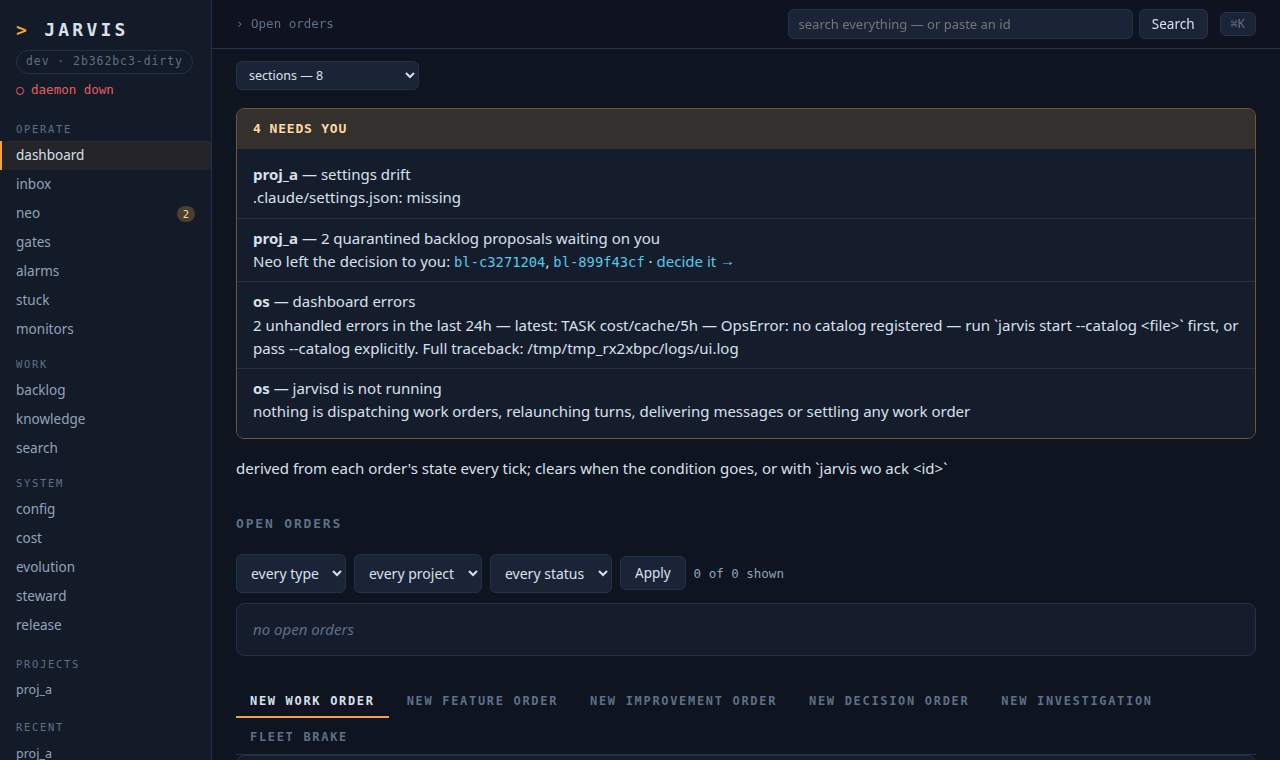
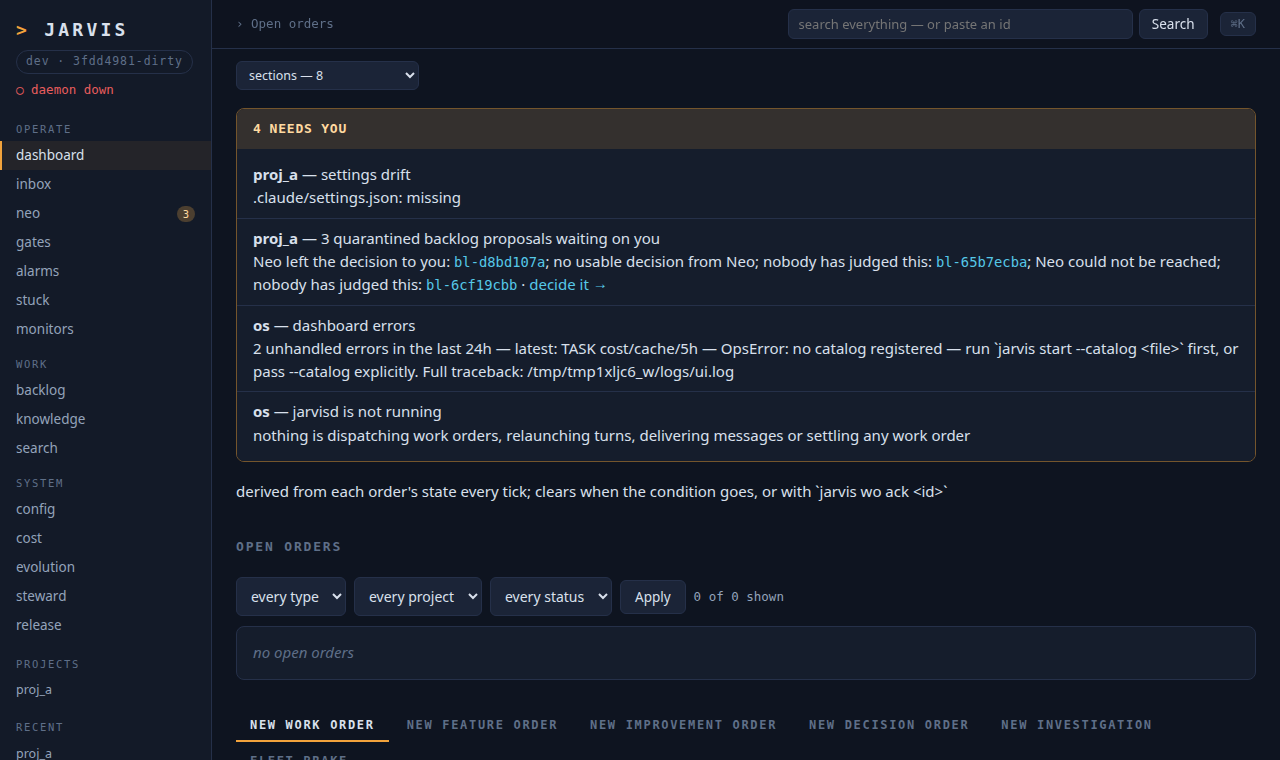
[wo-f50379cc] Say Neo was unreachable, never that it left the decision
Review round 1. Exhausted outage and unusable answer now read as nobody
having judged the proposal, per kn-40db1828. An item naming a question
that no longer exists is the user's, since nothing re-asks it.

Claude-Session: https://claude.ai/code/session_01QUrrkgL3FpZdcgugiThb1w

diff --git a/src/jarvis/ui/templates/backlog.html b/src/jarvis/ui/templates/backlog.html
@@ -14,10 +14,11 @@
 {% endcall %}
 
 {# 2026-11-03-backlog-operability.md §8 #}
-{% call(it) ui.needs_you(escalated, "quarantined — Neo left these to you") %}
+{% call(it) ui.needs_you(escalated, "quarantined — waiting on you") %}
   {{ ui.row_id(it.id, "/backlog/" ~ it.id) }} {{ it.title }}
-  <div class="sub">{{ it.review_rule }}: {{ it.review_note }}
-    {%- if it.neo_reason %} · Neo: {{ it.neo_reason }}{% endif %}</div>
+  <div class="sub">{{ it.review_rule }}: {{ it.review_note }}</div>
+  <div class="sub {{ 'tone-warn' if it.neo_state != 'escalated' }}">{{ it.neo_note }}
+    {%- if it.neo_reason %} · {{ it.neo_reason }}{% endif %}</div>
   <form class="inline" method="post" action="/backlog/review/{{ it.id }}">
     <button name="decision" value="accept" class="primary">Accept</button>
     <button name="decision" value="reject">Reject</button>

diff --git a/src/jarvis/ops.py b/src/jarvis/ops.py
@@ -13629,10 +13629,36 @@ def show_backlog(item_id: str) -> dict[str, Any]:
     return item
 
 
+#: What the user is told about a proposal they now hold; only `escalated` was a ruling (kn-40db1828)
+QUARANTINE_NOTES = {
+    "escalated": "Neo left the decision to you",
+    "unreachable": "Neo could not be reached; nobody has judged this",
+    "unjudged": "no usable decision from Neo; nobody has judged this",
+}
+
+
+def _quarantine_state(item: dict[str, Any], q: dict[str, Any] | None) -> str | None:
+    """Why the user holds this proposal; None while Neo will still answer it"""
+    from .neo_store import MAX_REVIVALS, NEO_HELD_Q_STATUSES
+
+    if not item.get("neo_question_id"):
+        return None  # `ask_quarantined` asks on the next tick
+    if q is None:
+        return "unjudged"  # nothing re-asks an item that already names a question
+    if q["status"] in NEO_HELD_Q_STATUSES:
+        return None
+    if q["status"] == "escalated":
+        return "escalated"
+    if q["status"] == "failed" and q.get("escalation_cause") == "transport-unreachable":
+        # `revive_unreachable` re-asks it until its revivals are spent
+        return "unreachable" if (q.get("revivals") or 0) >= MAX_REVIVALS else None
+    return "unjudged"
+
+
 def split_quarantined(items: list[dict[str, Any]]
                       ) -> tuple[list[dict[str, Any]], list[dict[str, Any]]]:
     """`(the user's, Neo's)` among quarantined rows (backlog-operability §8)"""
-    from .neo_store import MAX_REVIVALS, NeoStore
+    from .neo_store import NeoStore
 
     mine: list[dict[str, Any]] = []
     neos: list[dict[str, Any]] = []
@@ -13644,13 +13670,12 @@ def split_quarantined(items: list[dict[str, Any]]
         for item in quarantined:
             qid = item.get("neo_question_id")
             q = neo.get(int(qid)) if qid else None
-            # A transport failure re-asks itself until its revivals are spent: not yet the user's
-            handed_over = q is not None and (q["status"] == "escalated" or (
-                q["status"] == "failed"
-                and (q.get("escalation_cause") != "transport-unreachable"
-                     or (q.get("revivals") or 0) >= MAX_REVIVALS)))
-            (mine if handed_over else neos).append(
-                {**item, "neo_reason": (q or {}).get("answer_reason") or ""})
+            state = _quarantine_state(item, q)
+            row = {**item, "neo_state": state, "neo_reason": (q or {}).get("answer_reason") or ""}
+            if state:
+                mine.append({**row, "neo_note": QUARANTINE_NOTES[state]})
+            else:
+                neos.append(row)
     finally:
         neo.close()
     return mine, neos
@@ -13660,17 +13685,23 @@ def _backlog_escalated_attention(escalated: list[dict[str, Any]]) -> list[dict[s
     """One line per project; `backlog_neo.REVIEW_HINT` is the command"""
     from .backlog_neo import REVIEW_HINT
 
-    by_project: dict[str, list[str]] = {}
+    by_project: dict[str, list[dict[str, Any]]] = {}
     for item in escalated:
-        by_project.setdefault(item["project"], []).append(item["id"])
-    return [{
-        "project": project, "wo_id": None,
-        "title": (f"{len(ids)} quarantined backlog proposal"
-                  f"{'s' if len(ids) != 1 else ''} waiting on you"),
-        "status": "backlog_escalated",
-        "reason": f"Neo left the decision to you: {', '.join(ids)}",
-        "decide": REVIEW_HINT.format(id=ids[0] if len(ids) == 1 else "<bl-id>"),
-    } for project, ids in by_project.items()]
+        by_project.setdefault(item["project"], []).append(item)
+    rows = []
+    for project, items in by_project.items():
+        by_note: dict[str, list[str]] = {}
+        for item in items:
+            by_note.setdefault(item["neo_note"], []).append(item["id"])
+        rows.append({
+            "project": project, "wo_id": None,
+            "title": (f"{len(items)} quarantined backlog proposal"
+                      f"{'s' if len(items) != 1 else ''} waiting on you"),
+            "status": "backlog_escalated",
+            "reason": "; ".join(f"{note}: {', '.join(ids)}" for note, ids in by_note.items()),
+            "decide": REVIEW_HINT.format(id=items[0]["id"] if len(items) == 1 else "<bl-id>"),
+        })
+    return rows
 
 
 def _backlog_item_of_question(question_id: int) -> dict[str, Any] | None:

diff --git a/tests/test_neo.py b/tests/test_neo.py
@@ -1353,6 +1353,7 @@ def test_the_pulse_carries_a_proposal_only_once_neo_left_it_to_the_user(started,
     assert st["backlog_escalated"] == 1
     row, = _escalated_rows(st)
     assert row["project"] == "proj_a" and item["id"] in row["reason"]
+    assert "Neo left the decision to you" in row["reason"]
     assert row["decide"].startswith(f"jarvis backlog review {item['id']} ")
     assert not st["healthy"]
 
@@ -1396,7 +1397,11 @@ def test_an_outage_is_not_an_escalation_until_its_revivals_are_spent(started):
         assert neo.revive_unreachable() == []
     finally:
         neo.close()
-    assert ops.os_status()["backlog_escalated"] == 1
+    st = ops.os_status()
+    assert st["backlog_escalated"] == 1
+    row, = _escalated_rows(st)
+    assert "Neo could not be reached" in row["reason"] and item["id"] in row["reason"]
+    assert "Neo left the decision to you" not in row["reason"]
 
 
 def test_an_unusable_answer_that_spent_its_attempts_is_the_users(started):
@@ -1407,4 +1412,42 @@ def test_an_unusable_answer_that_spent_its_attempts_is_the_users(started):
                  cause="unparseable-reply")
     finally:
         neo.close()
-    assert ops.os_status()["backlog_escalated"] == 1
+    st = ops.os_status()
+    assert st["backlog_escalated"] == 1
+    row, = _escalated_rows(st)
+    assert "nobody has judged this" in row["reason"]
+    assert "Neo left the decision to you" not in row["reason"]
+
+
+def test_a_proposal_whose_question_is_gone_is_the_users_and_an_unasked_one_is_not(started):
+    """Only an item naming no question gets asked, so a lost question would wait forever"""
+    central = CentralStore()
+    try:
+        item = central.propose_backlog("proj_a", "Exporter drops rows on retry",
+                                       item_type="bug", severity="critical",
+                                       suggested_kind="wo", origin_refs=[])
+        central.review_backlog(item["id"], "quarantined", rule="severity-claim", note="claims")
+        assert ops.os_status()["backlog_escalated"] == 0
+        assert central.set_backlog_question(item["id"], 999999)
+    finally:
+        central.close()
+    st = ops.os_status()
+    assert st["backlog_escalated"] == 1
+    row, = _escalated_rows(st)
+    assert "nobody has judged this" in row["reason"]
+    assert "Neo left the decision to you" not in row["reason"]
+
+
+def test_mixed_causes_each_keep_their_own_words_on_the_one_line(started):
+    left, lost = _quarantined(started), _quarantined(started, "Uploader retry storm melts disks")
+    neo = NeoStore()
+    try:
+        neo.mark(left["neo_question_id"], "escalated", reason="the user's call")
+        neo.mark(lost["neo_question_id"], "failed", reason="backlog: nobody has judged this",
+                 cause="unparseable-reply")
+    finally:
+        neo.close()
+    row, = _escalated_rows(ops.os_status())
+    told_left, told_lost = row["reason"].split("; ", 1)
+    assert told_left.startswith("Neo left the decision to you") and left["id"] in told_left
+    assert lost["id"] in told_lost and left["id"] not in told_lost

diff --git a/tests/test_ui.py b/tests/test_ui.py
@@ -3916,7 +3916,8 @@ def test_backlog_page_splits_escalated_from_what_neo_still_decides(client, proje
     page = client.get("/backlog").text
 
     head, _, rest = page.partition("Neo is still deciding")
-    assert "Neo left these to you" in head and "too close to call" in head
+    assert "quarantined — waiting on you" in head and "too close to call" in head
+    assert "Neo left the decision to you" in head
     assert f'action="/backlog/review/{mine}"' in head
     assert 'value="accept"' in head and 'value="reject"' in head
     assert "<details" in head and "<details open" not in head
@@ -3926,11 +3927,34 @@ def test_backlog_page_splits_escalated_from_what_neo_still_decides(client, proje
     assert f'action="/backlog/review/{neos}"' not in page
 
 
+def test_backlog_page_says_neo_was_unreachable_once_revivals_are_spent(client, project):
+    from jarvis.neo_store import MAX_REVIVALS, NeoStore
+
+    item, qid = _quarantine("exporter drops rows")
+    neo = NeoStore()
+    try:
+        for _ in range(MAX_REVIVALS):
+            neo.mark(qid, "failed", reason="neo could not be reached: x",
+                     cause="transport-unreachable")
+            page = client.get("/backlog").text
+            assert "Neo is still deciding" in page and "waiting on you" not in page
+            neo.revive_unreachable()
+        neo.mark(qid, "failed", reason="neo could not be reached: x",
+                 cause="transport-unreachable")
+    finally:
+        neo.close()
+    page = client.get("/backlog").text
+    assert "Neo could not be reached; nobody has judged this" in page
+    assert "Neo left the decision to you" not in page and "Neo left these" not in page
+    assert "Neo is still deciding" not in page
+    assert f'action="/backlog/review/{item}"' in page and 'value="reject"' in page
+
+
 def test_backlog_page_without_quarantine_renders_neither_block(client, project):
     CentralStore().add_backlog("proj_a", "just an idea")
     page = client.get("/backlog").text
     assert "just an idea" in page
-    assert "Neo left these to you" not in page and "Neo is still deciding" not in page
+    assert "quarantined — waiting on you" not in page and "Neo is still deciding" not in page
     assert "/backlog/review/" not in page
 
 
@@ -3946,7 +3970,7 @@ def test_backlog_review_post_decides_and_closes_the_question(client, project, de
     assert (got["status"], got["review_rule"]) == (status, "user")
     q = NeoStore().get(qid)
     assert (q["status"], q["answered_by"]) == ("answered", "user")
-    assert "Neo left these to you" not in client.get("/backlog").text
+    assert "quarantined — waiting on you" not in client.get("/backlog").text
 
 
 @pytest.mark.parametrize("decision", ["", "maybe", "duplicate"])
